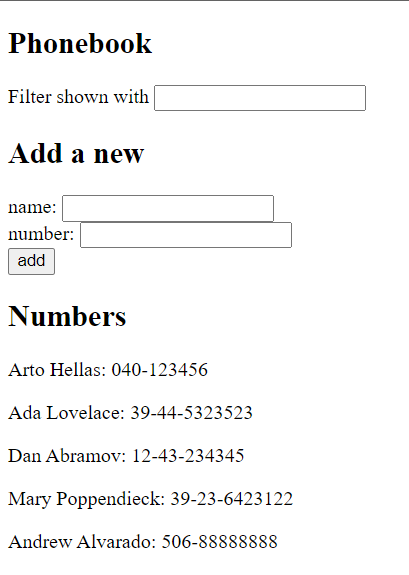
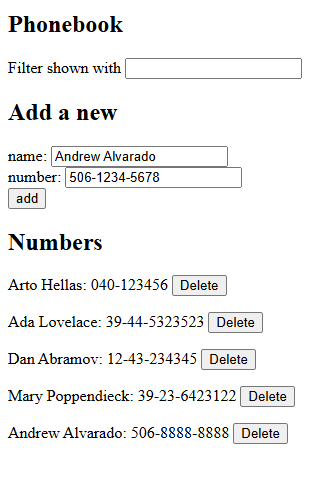
Complete Exercises  2.12 - 2.15
2.12: Numbers are saved to the backend
2.13: Communication with the backend has its own module (personService.js)
2.14: It is now possible to delete entries in the phonebook.
2.15: Numbers can be updated by adding a new number to an existing user.

Changed region(s): [[0.0, 0.2188, 0.8978, 0.9688], [0.0, 0.125, 0.8978, 0.2188], [0.0, 0.0312, 0.3715, 0.0938]]

diff --git a/part2/phonebook/src/App.jsx b/part2/phonebook/src/App.jsx
@@ -2,7 +2,7 @@ import { useState, useEffect } from 'react'
 import Filter from './components/Filter'
 import PersonsForm from './components/PersonsForm'
 import Persons from './components/Persons'
-import axios from 'axios'
+import personService from './services/personService'
 
 const App = () => {
   const [persons, setPersons] = useState([])
@@ -12,10 +12,10 @@ const App = () => {
 
 
   useEffect(() => {
-    axios
-      .get('http://localhost:3001/persons')
-      .then(response => {
-        setPersons(response.data)
+    personService
+      .getAll()
+      .then(initialPersons => {
+        setPersons(initialPersons)
       })
   }, [])
 
@@ -27,14 +27,24 @@ const App = () => {
       name: newName,
       number: newNumber
     }
-
-    if (persons.some(person => person.name === newName)) {
-      alert(`${newName} is already added to phonebook`)
+    const person = persons.find(person => person.name === newName)
+    if (person && window.confirm(`${newName} is already added to phonebook, replace the old number with a new one?`)) {
+        personService.update(person.id, personObject)
+          .then(updatedPerson => {
+            setPersons(persons.map(p => p.id === person.id ? updatedPerson : p))
+            setNewName('')
+            setNewNumber('')
+          })
     }
+
     else {
-      setPersons(persons.concat(personObject))
-      setNewName('')
-      setNewNumber('')
+      personService
+        .create(personObject)
+        .then(returnedPerson => {
+          setPersons(persons.concat(returnedPerson))
+          setNewName('')
+          setNewNumber('')
+        })
     }
   }
 
@@ -50,6 +60,15 @@ const App = () => {
     setPersonsFilter(event.target.value)
   }
 
+  const deletePerson = (id, name) => {
+    if (window.confirm(`Delete ${name}?`)) {
+      personService.remove(id)
+        .then(removedPerson =>
+          setPersons(persons.filter(p => p.id !== id))
+        )
+    }
+  }
+
   return (
     <div>
       <h2>Phonebook</h2>
@@ -59,7 +78,7 @@ const App = () => {
       <PersonsForm addPerson={addPerson} newName={newName} handleNewName={handleNewName} newNumber={newNumber} handleNewNumber={handleNewNumber}></PersonsForm>
 
       <h2>Numbers</h2>
-      <Persons persons={personsToShow}> </Persons>
+      <Persons persons={personsToShow} deletePerson={deletePerson}> </Persons>
     </div>
   )
 }

diff --git a/part2/phonebook/src/services/personService.js b/part2/phonebook/src/services/personService.js
@@ -1,0 +1,28 @@
+import axios from 'axios'
+const baseUrl = 'http://localhost:3001/persons'
+
+const getAll = () => {
+    const request = axios.get(baseUrl)
+    return request.then(response => response.data)
+}
+
+const create = newObject => {
+    const request = axios.post(baseUrl, newObject)
+    return request.then(response => response.data)
+}
+
+const update = (id, newObject) => {
+    const request = axios.put(`${baseUrl}/${id}`, newObject)
+    return request.then(response => response.data)
+}
+
+const remove = (id) => {
+    const request = axios.delete(`${baseUrl}/${id}`)
+    return request.then(response => response.data)
+}
+export default {
+    getAll,
+    create,
+    update,
+    remove
+}

diff --git a/part2/phonebook/src/components/Persons.jsx b/part2/phonebook/src/components/Persons.jsx
@@ -1,4 +1,5 @@
-const Persons = ({ persons }) =>
-    persons.map(person => <p key={person.name}>{person.name}: {person.number}</p>)
-
+const Persons = ({ persons, deletePerson }) =>
+    persons.map(person =>
+            <p key={person.name}>{person.name}: {person.number} <button onClick={()=>deletePerson(person.id, person.name)}>Delete</button> </p>
+    )
 export default Persons

diff --git a/part2/phonebook/README.md b/part2/phonebook/README.md
@@ -1,11 +1,12 @@
 # phonebook
 
 A simple phonebook application where you can add names and numbers to a list and also filter the list.
+Numbers can also be updated entering an existing name or deleted with a dedicated button.
 
 ![Screenshot](public/Screenshot.png)
 
 Exercises from https://fullstackopen.com/en/part2/
-2.6 - 2.11
+2.6 - 2.15
 
 ## Installation and Setup Instructions
 
